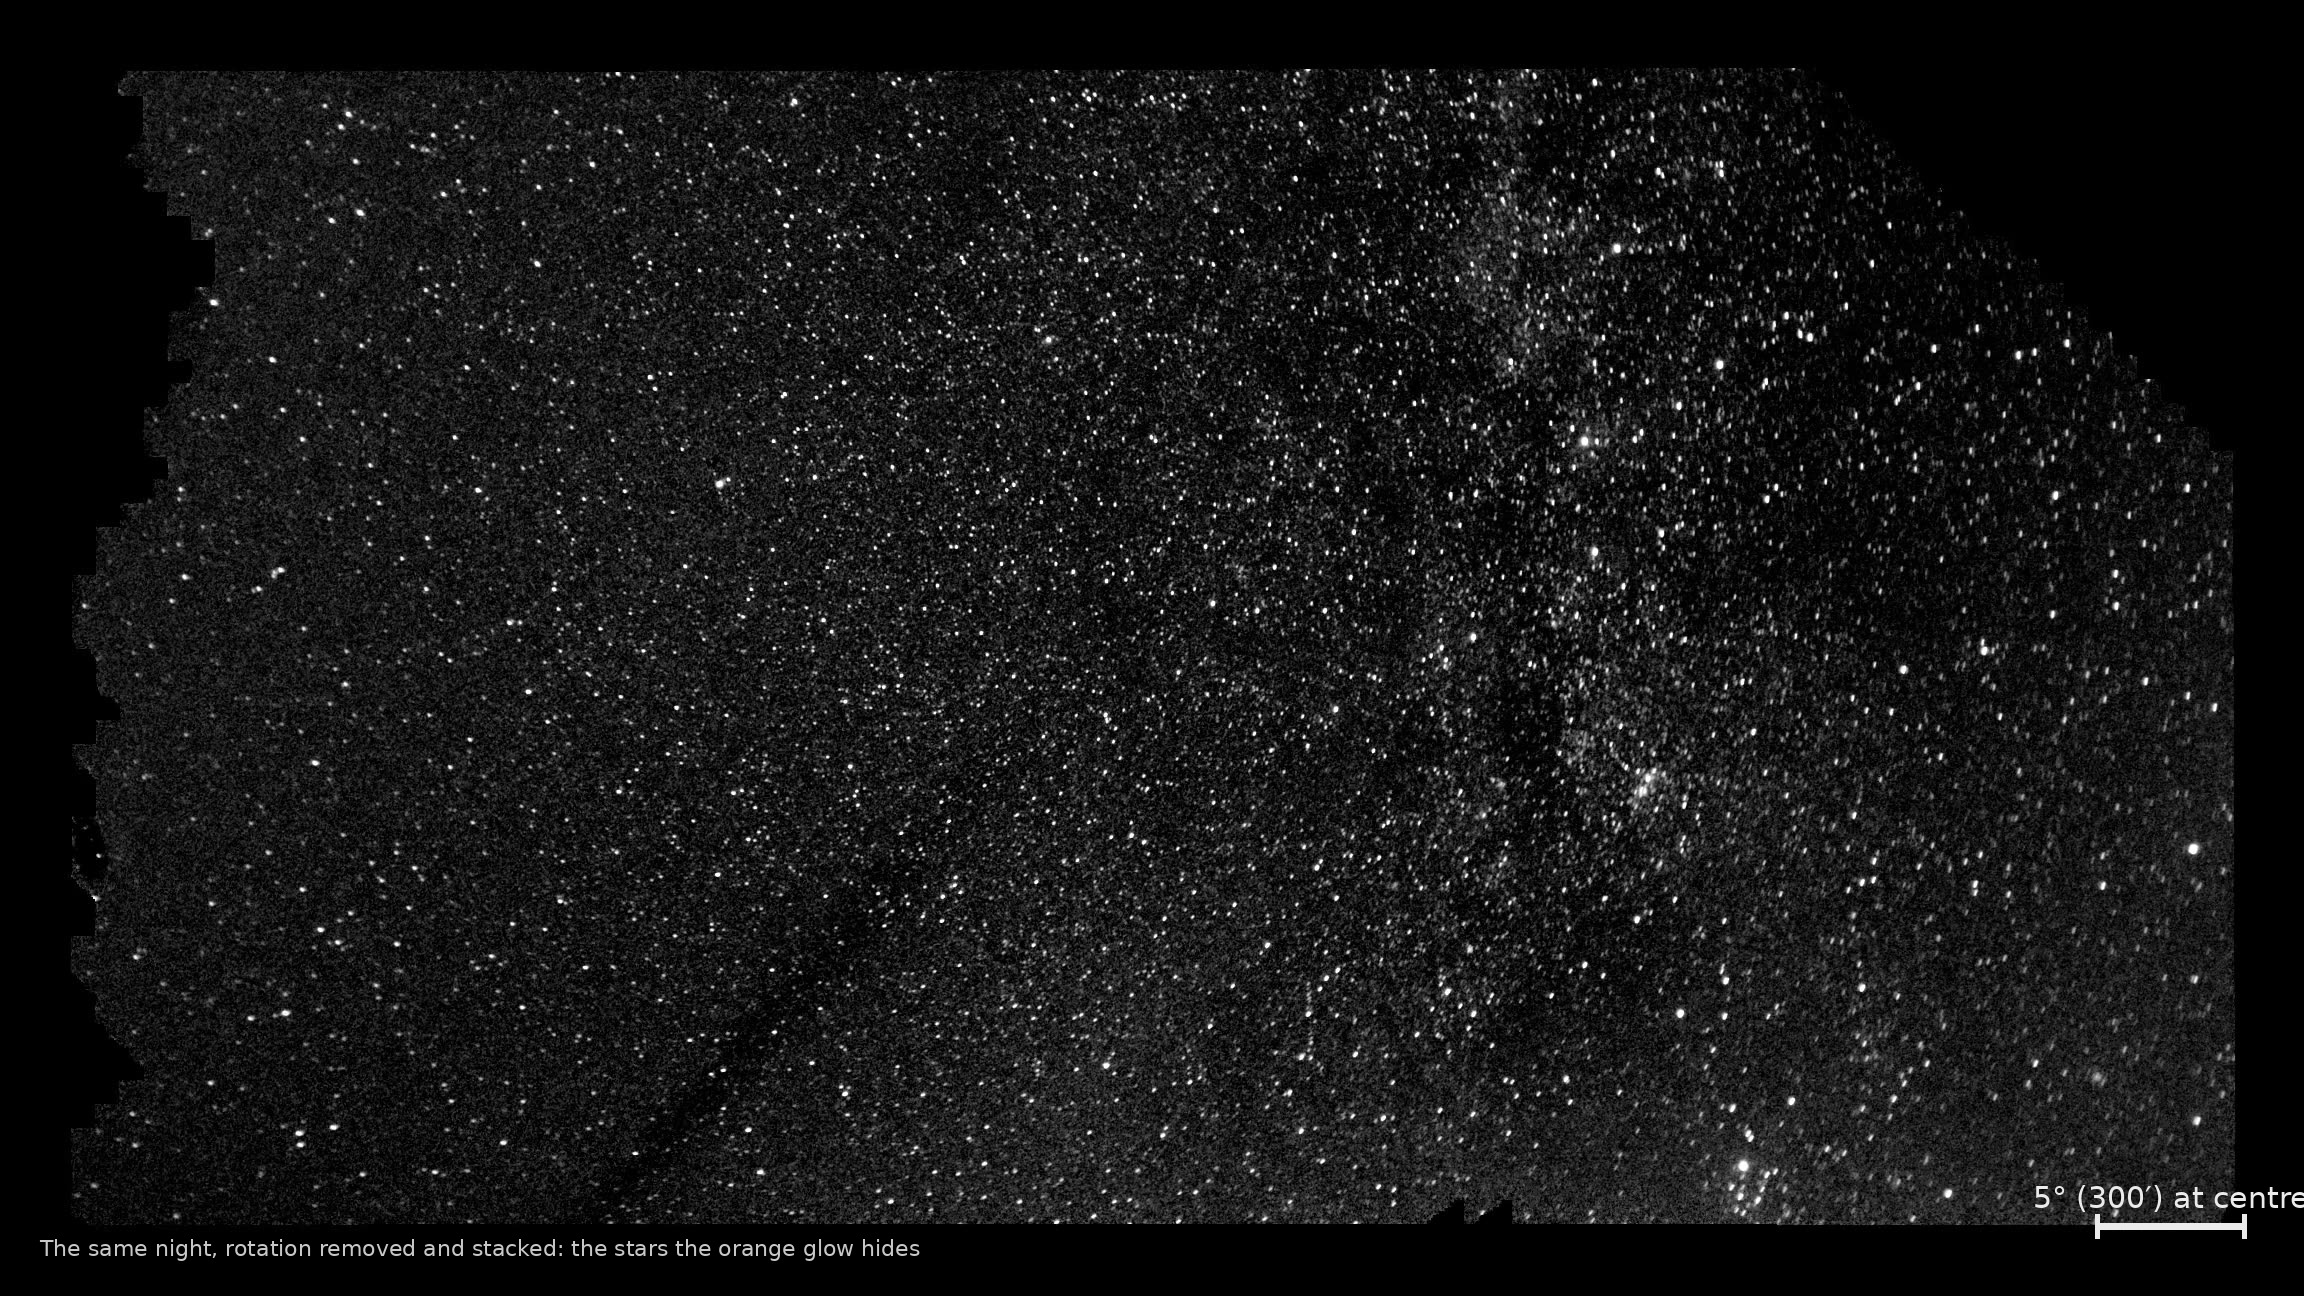
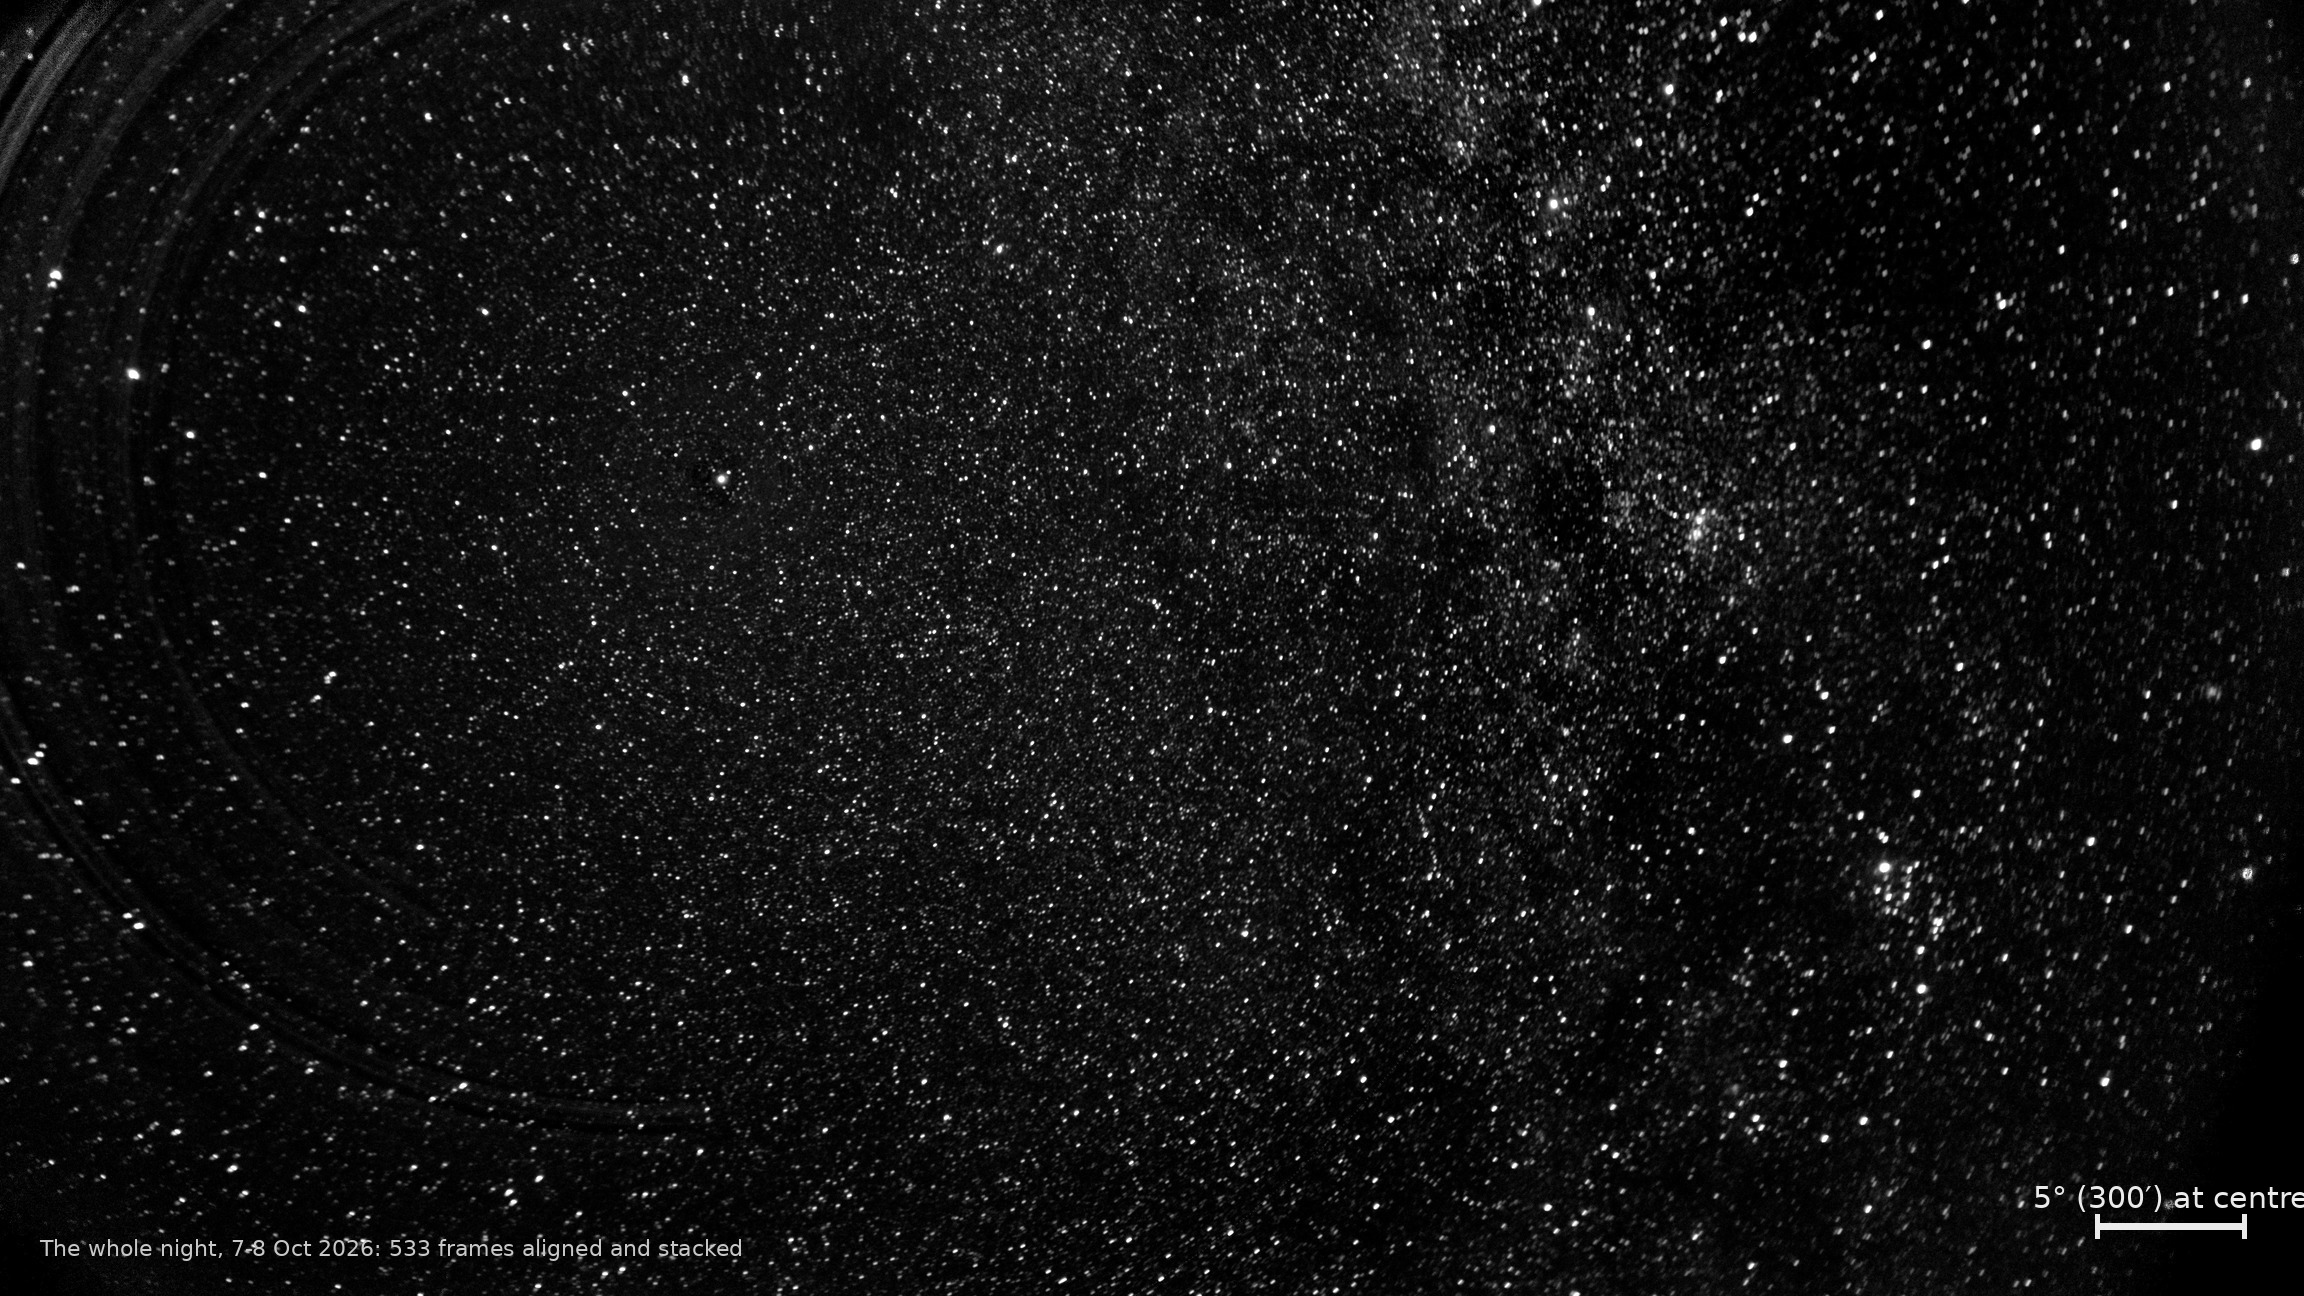
mywebsite: /astro/project: before/after section (1/3/10/30 min + night, close and wide, from astro-science #1107); deep stack now the whole-night aligned driz2 (533 frames), detail from the night stack
Session: #1136

diff --git a/lambda/routes/astro.py b/lambda/routes/astro.py
@@ -126,7 +126,7 @@ def render_astro_hub(*, theme_css_js):
 
 
 def render_astro_project(*, theme_css_js, startrails_url=None, deep_url=None,
-                         detail_url=None):
+                         detail_url=None, ba_urls=None):
     """/astro/project: the project explained, an article (also on Medium).
 
     Source text: writing/2026-11-21-medium-first.md. Images are presigned
@@ -144,9 +144,41 @@ def render_astro_project(*, theme_css_js, startrails_url=None, deep_url=None,
                  "662 one-minute frames from a &pound;25 camera, combined into one picture. "
                  "As the Earth rotates, the stars trace concentric circular arcs, with Polaris near the pole. The dotted lines are aircraft. The field of view is about 75 by 42 degrees.")
     deep = fig(deep_url, "The same night derotated and stacked: many point-like stars",
-               "The same night with the sky\'s rotation removed and the frames stacked: the northern Milky Way runs down the right-hand side.")
+               "The whole night with the sky's rotation removed: all 533 dark frames aligned and "
+               "stacked. The northern Milky Way crosses the frame.")
     detail = fig(detail_url, "Close-up of the Milky Way band with dark dust lanes",
-                 "Detail of the Milky Way band from the stack above, enlarged two times.")
+                 "Detail of the Milky Way band from the whole night's stack, enlarged two times.")
+
+    ba_urls = ba_urls or {}
+    steps = [("1", "1 minute"), ("3", "3 minutes"), ("10", "10 minutes"),
+             ("30", "30 minutes"), ("night", "the whole night")]
+
+    def grid(kind):
+        cells = []
+        for key, label in steps:
+            url = ba_urls.get(f"{kind}-{key}")
+            if url:
+                cells.append(f'<a href="{url}"><img src="{url}" '
+                             f'alt="{kind} view after {label}" loading="lazy"></a>')
+        return f'<div class="ba-grid">{"".join(cells)}</div>' if cells else ""
+
+    ba_close, ba_wide = grid("close"), grid("wide")
+    ba_section = ""
+    if ba_close or ba_wide:
+        ba_section = (
+            "<h2>From one minute to a whole night</h2>\n"
+            "    <p>The same patch of sky after 1, 3, 10 and 30 minutes, and after the whole "
+            "night. Every panel is processed and stretched identically, so only the number of "
+            "frames changes. As frames add up, the speckle of noise fades and fainter stars "
+            "appear. Beyond about ten minutes the speckle stops shrinking as fast as you would "
+            "expect, because what remains is not noise: it is the combined glow of countless "
+            "stars too faint to pick out singly, which more frames reveal rather than remove.</p>\n"
+            f"    {ba_close}\n"
+            '    <p class="cap">The Milky Way close-up at each step. The short dashes are stars '
+            "moving during each 60-second exposure: the camera is fixed.</p>\n"
+            f"    {ba_wide}\n"
+            '    <p class="cap">The whole field at each step, with the close-up outlined in '
+            "orange. Tap a panel to see it full size.</p>")
     return f'''<!DOCTYPE html>
 <html lang="en">
 <head>
@@ -165,6 +197,9 @@ def render_astro_project(*, theme_css_js, startrails_url=None, deep_url=None,
     figure {{ margin: 1.2rem 0; }}
     figure img {{ width: 100%; height: auto; display: block; border-radius: 12px; }}
     figcaption {{ color: var(--text-secondary); font-size: 0.8rem; margin-top: 0.4rem; line-height: 1.4; }}
+    .ba-grid {{ display: grid; grid-template-columns: repeat(auto-fit, minmax(140px, 1fr)); gap: 6px; margin: 1rem 0 0.3rem; }}
+    .ba-grid img {{ width: 100%; height: auto; display: block; border-radius: 8px; }}
+    .cap {{ color: var(--text-secondary); font-size: 0.8rem; line-height: 1.4; margin: 0 0 1.2rem; }}
     a {{ color: var(--accent); text-decoration: none; }}
     .nav {{ text-align: center; color: var(--text-secondary); font-size: 0.8rem; margin: 2rem 0 1rem; }}
   </style>
@@ -184,6 +219,7 @@ def render_astro_project(*, theme_css_js, startrails_url=None, deep_url=None,
     <p>Over on my website, <a href="/astro">www.petergrecian.co.uk/astro</a>, there are automatic updates each morning of the previous night&#39;s results. It took two weeks to see my first star. The photo below shows how far things have come since: the northern Milky Way, the view out towards the edge of our galaxy, away from its centre. It was made by rotating each image taken that night to undo the rotation of the Earth and adding them all up. It shows the dense band of our galaxy&#39;s disc, crossed by dark lanes of dust, some of it made by earlier generations of stars, where new ones may yet form.</p>
     {deep}
     {detail}
+    {ba_section}
 
     <h2>Results so far</h2>
     <ul>

diff --git a/lambda/mywebsite.py b/lambda/mywebsite.py
@@ -4058,12 +4058,21 @@ def _route_astro_project(rq):
                                            bucket=ASTRO_BUCKET)
         except Exception:
             urls[name] = None
+    ba = {}
+    for kind in ('close', 'wide'):
+        for step in ('1', '3', '10', '30', 'night'):
+            try:
+                ba[f'{kind}-{step}'] = get_presigned_url(
+                    f'site/project-ba-{kind}-{step}.jpg', bucket=ASTRO_BUCKET)
+            except Exception:
+                pass
     return {
         'statusCode': 200,
         'body': render_astro_project(theme_css_js=THEME_CSS_JS,
                                      startrails_url=urls['startrails'],
                                      deep_url=urls['deep'],
-                                     detail_url=urls['detail']),
+                                     detail_url=urls['detail'],
+                                     ba_urls=ba),
         'headers': {'Content-Type': 'text/html; charset=utf-8'}
     }
 

diff --git a/writing/2026-11-21-medium-first.md b/writing/2026-11-21-medium-first.md
@@ -18,10 +18,29 @@ while I sleep.
 Over on my website, [www.petergrecian.co.uk/astro](https://www.petergrecian.co.uk/astro?ref=medium), there are automatic updates each morning of the previous night's results. It took two weeks to see my first star. The photo below shows how far things have come since: the northern Milky Way, the view out towards the edge of our galaxy, away from its centre. It was made by rotating each image taken that night to undo the rotation of the Earth and adding them all up. It shows the dense band of our galaxy's disc, crossed by dark lanes of dust, some of it made by earlier generations of stars, where new ones may yet form.
 
 ![medium-deep.jpg](medium-deep.jpg)
-*The same night with the sky's rotation removed and the frames stacked: the northern Milky Way runs down the right-hand side.*
+*The whole night with the sky's rotation removed: all 533 dark frames aligned and stacked. The northern Milky Way crosses the frame.*
 
 ![medium-detail.jpg](medium-detail.jpg)
-*Detail of the Milky Way band from the stack above, enlarged two times.*
+*Detail of the Milky Way band from the whole night's stack, enlarged two times.*
+
+## From one minute to a whole night
+
+The same patch of sky after 1, 3, 10 and 30 minutes, and after the whole night. Every panel is processed and stretched identically, so only the number of frames changes. As frames add up, the speckle of noise fades and fainter stars appear. Beyond about ten minutes the speckle stops shrinking as fast as you would expect, because what remains is not noise: it is the combined glow of countless stars too faint to pick out singly, which more frames reveal rather than remove.
+
+![project-ba-close-1.jpg](project-ba-close-1.jpg)
+![project-ba-close-3.jpg](project-ba-close-3.jpg)
+![project-ba-close-10.jpg](project-ba-close-10.jpg)
+![project-ba-close-30.jpg](project-ba-close-30.jpg)
+![project-ba-close-night.jpg](project-ba-close-night.jpg)
+*The Milky Way close-up at each step. The short dashes are stars moving during each 60-second exposure: the camera is fixed.*
+
+![project-ba-wide-1.jpg](project-ba-wide-1.jpg)
+![project-ba-wide-3.jpg](project-ba-wide-3.jpg)
+![project-ba-wide-10.jpg](project-ba-wide-10.jpg)
+![project-ba-wide-30.jpg](project-ba-wide-30.jpg)
+![project-ba-wide-night.jpg](project-ba-wide-night.jpg)
+*The whole field at each step, with the close-up outlined in orange.*
+
 
 ## Results so far
 
